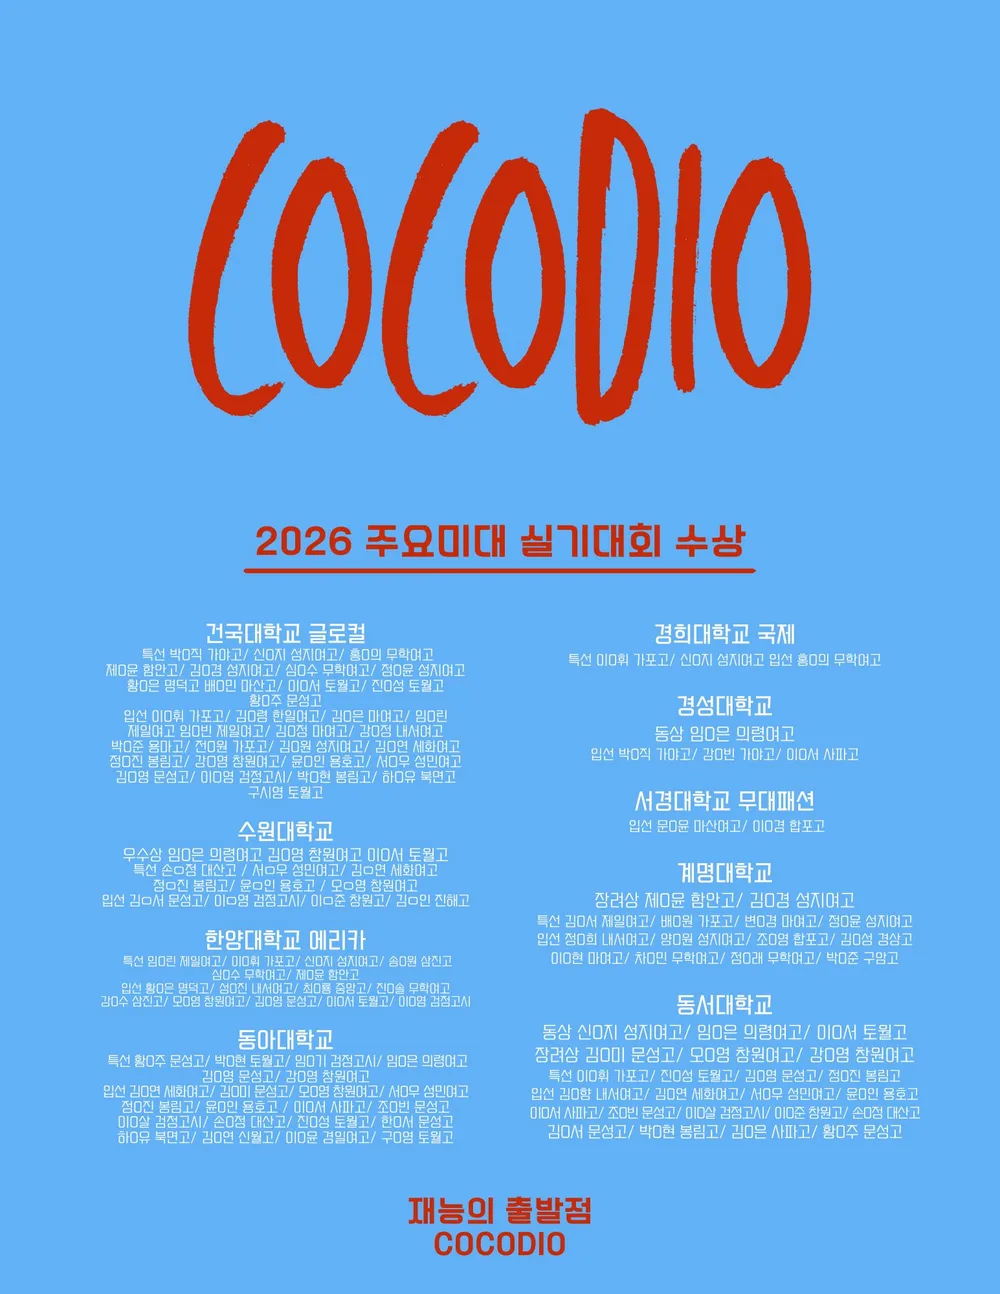
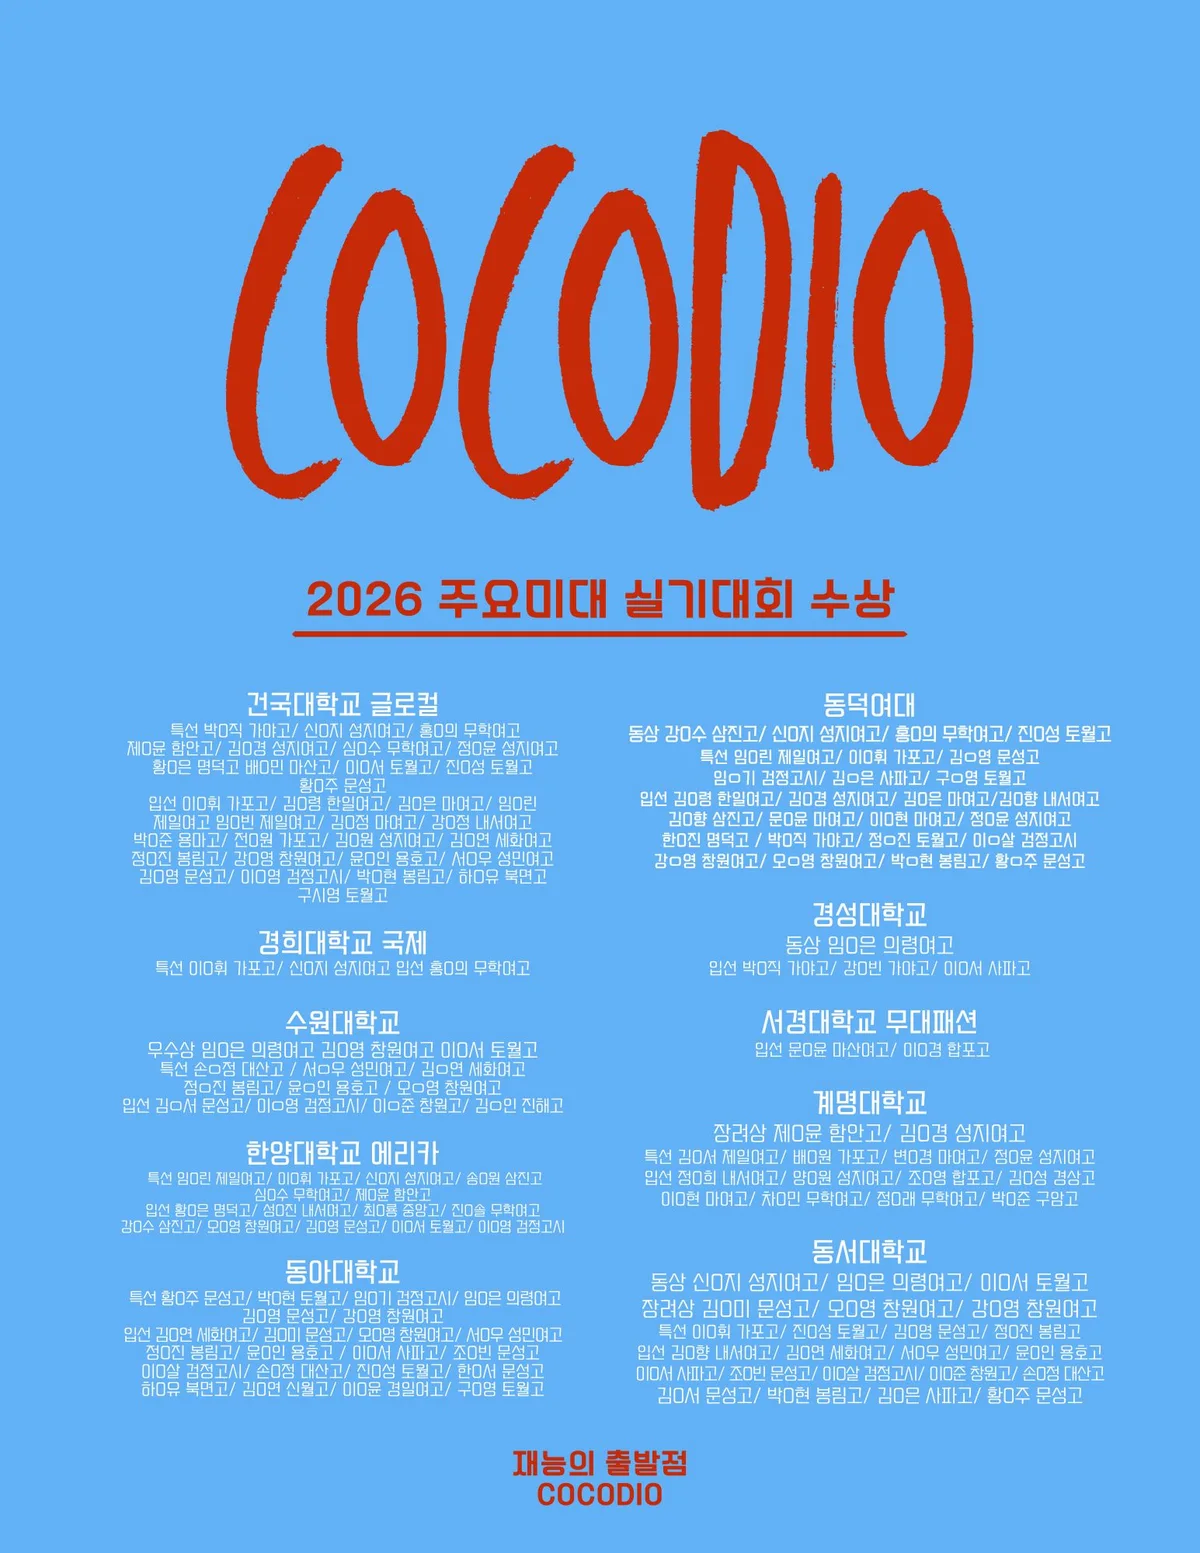
Update popup modal component and add new award assets
Replit-Commit-Author: Agent

Changed region(s): [[0.093, 0.3709, 0.93, 0.9892]]

diff --git a/client/src/components/popup-modal.tsx b/client/src/components/popup-modal.tsx
@@ -1,6 +1,7 @@
 import { useState, useEffect, useRef, useCallback } from "react";
 import { X, ArrowRight } from "lucide-react";
 import { Button } from "@/components/ui/button";
+import dongdukAwardPopupImage from "@assets/optimized/dongduk-award-popup.webp";
 import awards2026PopupImage from "@assets/optimized/awards-2026-popup.webp";
 import bisang8PopupImage from "@assets/optimized/bisang-8-popup.webp";
 import directorYoungBeom from "@assets/2 (5)_1753939385447.jpg";
@@ -51,11 +52,11 @@ export default function PopupModal({
   const videoRef = useRef<HTMLVideoElement>(null);
   const closedNotifiedRef = useRef(false); // onClosed 중복 호출 방지 (원샷)
 
-  const notifyClosedOnce = () => {
+  const notifyClosedOnce = useCallback(() => {
     if (closedNotifiedRef.current) return;
     closedNotifiedRef.current = true;
     onClosed?.();
-  };
+  }, [onClosed]);
 
   useEffect(() => {
     if (!active) return;
@@ -80,7 +81,7 @@ export default function PopupModal({
 
       return () => clearTimeout(timer);
     }
-  }, [id, delay, active, onClosed]);
+  }, [id, delay, active, notifyClosedOnce]);
 
   // 이미지 사전 로딩 - 팝업이 뜨는 순간 버퍼링/로딩 없이 즉시 표시
   useEffect(() => {
@@ -172,6 +173,8 @@ export default function PopupModal({
     const isNewAnnouncementPopup = id === 'popup-awards-2025' || id === 'popup-admissions-2026';
     // 2026 수상 / BISANG 8월 팝업 - 크게 표시
     const isDualPopup2026 = id === 'popup-awards-2026' || id === 'popup-bisang-8';
+    // 동덕여대 실기대회 수상 팝업 - 모바일에서 화면 폭을 거의 채움
+    const isLeadAwardPopup = id === 'popup-dongduk-award-2026';
     // 영상 팝업(popup4)은 1.2배 크게 표시 (닫기 버튼 접근성 개선)
     const isVideoPopup = id === 'popup4';
     // 전시회 팝업(popup5)은 1.8배 크게 표시 (글자 가독성 개선)
@@ -180,7 +183,9 @@ export default function PopupModal({
     
     // 모바일에서는 더 작게, 좌우 배치일 때는 중간 크기
     const maxWidth = isMobile 
-      ? Math.min(280 * sizeMultiplier, window.innerWidth * 0.9)  // 모바일에서 더 작게
+      ? isLeadAwardPopup
+        ? window.innerWidth * 0.92
+        : Math.min(280 * sizeMultiplier, window.innerWidth * 0.9)  // 모바일에서 더 작게
       : isPositioned
         ? Math.min(350 * sizeMultiplier, window.innerWidth * 0.48)  // 좌우 배치시 크기 증가
         : isLarge 
@@ -189,7 +194,9 @@ export default function PopupModal({
         
     const maxHeight = Math.min(
       isMobile
-        ? window.innerHeight * 0.6 * sizeMultiplier  // 모바일에서 높이도 증가
+        ? isLeadAwardPopup
+          ? window.innerHeight * 0.82
+          : window.innerHeight * 0.6 * sizeMultiplier  // 모바일에서 높이도 증가
         : isPositioned
           ? window.innerHeight * 0.7 * sizeMultiplier  // 좌우 배치시 높이 증가
           : isLarge 
@@ -429,8 +436,8 @@ export default function PopupModal({
 
 // 팝업 매니저 컴포넌트
 export function PopupManager() {
-  // 모바일에서는 두 팝업을 순차 표시 (앞 팝업을 닫으면 다음 팝업 표시)
-  const isMobileSequential =
+  // 첫 수상 팝업이 닫힌 뒤, 데스크톱은 두 팝업을 함께 / 모바일은 차례대로 표시
+  const isMobile =
     typeof window !== 'undefined' && window.innerWidth <= 768;
   const [seqIndex, setSeqIndex] = useState(0);
   const advanceSeq = useCallback(() => setSeqIndex((i) => i + 1), []);
@@ -450,6 +457,17 @@ export function PopupManager() {
     //   position: 'center' as const,
     // },
     {
+      id: 'popup-dongduk-award-2026',
+      title: '2026 동덕여대 실기대회 동상 수상',
+      imageUrl: dongdukAwardPopupImage,
+      type: 'image' as const,
+      delay: 1,
+      isLarge: true,
+      position: 'center' as const,
+      active: seqIndex === 0,
+      onClosed: advanceSeq,
+    },
+    {
       id: 'popup-awards-2026',
       title: '2026 주요미대 실기대회 수상',
       imageUrl: awards2026PopupImage,
@@ -457,8 +475,8 @@ export function PopupManager() {
       delay: 1.5,
       isLarge: true,
       position: 'left' as const,
-      active: !isMobileSequential || seqIndex === 0,
-      onClosed: isMobileSequential ? advanceSeq : undefined,
+      active: seqIndex === 1,
+      onClosed: isMobile ? advanceSeq : undefined,
     },
     {
       id: 'popup-bisang-8',
@@ -468,7 +486,7 @@ export function PopupManager() {
       delay: 1.5,
       isLarge: true,
       position: 'right' as const,
-      active: !isMobileSequential || seqIndex === 1,
+      active: isMobile ? seqIndex === 2 : seqIndex === 1,
     },
     // 강사 프로필 팝업(popup1, popup2) - 비활성화 (지시에 따라 숨김)
     // {
